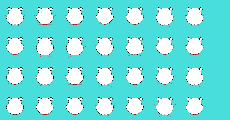
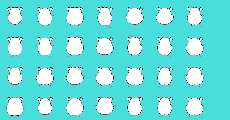
face function done

diff --git a/face_code.js b/face_code.js
@@ -19,7 +19,7 @@
 // MF = Middle line of Face
 // LF = Lower Face
 
-function myFace(Cheek, Jaw){
+function myFace(topHead_angle, upperCheek_angle, MF_width, cheek_angle, jaw_angle){
   angleMode(DEGREES);
   rectMode(CENTER);
   strokeWeight(0.2);
@@ -42,38 +42,38 @@ function myFace(Cheek, Jaw){
   endShape();
 
   // Upper half of face
-  beginShape();
-  vertex(-6, 0);
-  bezierVertex(-5, -1, -6, -6, 0, -6);
-  bezierVertex(6, -6, 5, -1, 6, 0);
-  endShape();
+  // beginShape();
+  // vertex(-6, 0);
+  // bezierVertex(-5, -1, -6, -6, 0, -6);
+  // bezierVertex(6, -6, 5, -1, 6, 0);
+  // endShape();
 
   // // Lower half of face
   // // Define bezier's start and end points
-  // let LF_st_X = -6;
-  // let LF_st_Y = 0;
+  // let faceStart_X = -6;
+  // let faceStart_Y = 0;
   // let LF_ed_X1 = 0;
   // let LF_ed_Y1 = 8;
-  // let LF_ed_X2 = 6;
-  // let LF_ed_Y2 = 0;
+  // let faceEnd_X = 6;
+  // let faceEnd_Y = 0;
 
   // // Bezier degree
   // // let lowerFaceSize = 0.4;
 
   // // Control points coordinates
-  // let LF_ctrl_X1 = LF_st_X + (LF_ed_X1-4)  * lowerFaceSize;
-  // let LF_ctrl_Y1 = LF_st_Y + (LF_ed_Y1-7)  * lowerFaceSize;
+  // let LF_ctrl_X1 = faceStart_X + (LF_ed_X1-4)  * lowerFaceSize;
+  // let LF_ctrl_Y1 = faceStart_Y + (LF_ed_Y1-7)  * lowerFaceSize;
   // let LF_ctrl_X2 = LF_ed_X1 + (LF_ed_X1 - 8) * lowerFaceSize;
   // let LF_ctrl_Y2 = LF_ed_Y1 + (LF_ed_Y1 -7) * lowerFaceSize;
-  // let LF_ctrl_X3 = LF_ed_X1 + (LF_ed_X2+2)  * lowerFaceSize;
-  // let LF_ctrl_Y3 = LF_ed_Y1 + (LF_ed_Y2+1)  * lowerFaceSize;
-  // let LF_ctrl_X4 = LF_ed_X2 + (LF_ed_X2 - 2) * lowerFaceSize;
-  // let LF_ctrl_Y4 = LF_ed_Y2 + (LF_ed_Y2 +1) * lowerFaceSize;
+  // let LF_ctrl_X3 = LF_ed_X1 + (faceEnd_X+2)  * lowerFaceSize;
+  // let LF_ctrl_Y3 = LF_ed_Y1 + (faceEnd_Y+1)  * lowerFaceSize;
+  // let LF_ctrl_X4 = faceEnd_X + (faceEnd_X - 2) * lowerFaceSize;
+  // let LF_ctrl_Y4 = faceEnd_Y + (faceEnd_Y +1) * lowerFaceSize;
 
   // beginShape();
-  // vertex(LF_st_X, LF_st_Y);
+  // vertex(faceStart_X, faceStart_Y);
   // bezierVertex(LF_ctrl_X1, LF_ctrl_Y1, LF_ctrl_X2, LF_ctrl_Y2, LF_ed_X1, LF_ed_Y1);
-  // bezierVertex(LF_ctrl_X3, LF_ctrl_Y3, LF_ctrl_X4, LF_ctrl_Y4, LF_ed_X2, LF_ed_Y2);
+  // bezierVertex(LF_ctrl_X3, LF_ctrl_Y3, LF_ctrl_X4, LF_ctrl_Y4, faceEnd_X, faceEnd_Y);
   // endShape();
 
   // // beginShape();
@@ -98,52 +98,84 @@ function myFace(Cheek, Jaw){
   // line(0, 8, 8, 9);
   // line(10, 1, 6, 0);
   ///////////////////////////////////////////
-  lowerFace(Cheek, Jaw);
+  faceShape(topHead_angle, upperCheek_angle, MF_width, cheek_angle, jaw_angle);
 }
 
-function lowerFace(Cheek, Jaw){
-  // Cheek is the angles of lower control lines (below middle line of face)
-  // Jaw is the angles of bottom control lines
+function faceShape(topHead_angle, upperCheek_angle, MF_width, cheek_angle, jaw_angle){
+  
   // Define bezier's start and end points
-  let LF_ctrl_Radius1 = 3.3;
-  let LF_ctrl_Radius2 = 6;
-  // Cheek = 17;
-  // Jaw = 20;
-  let MF_width = 6;
+  // MF_width = 6; // Width of the face middle
 
-  let LF_st_X = -MF_width;
-  let LF_st_Y = 0;
+  // Both upper and lower face bezier shapes start from left middle point, and end at right middle point
+  let faceStart_X = -MF_width;
+  let faceStart_Y = 0;
+  let faceEnd_X = MF_width;
+  let faceEnd_Y = 0;
+
+  let UF_ed_X1 = 0;
+  let UF_ed_Y1 = -6; // Top head height
   let LF_ed_X1 = 0;
-  let LF_ed_Y1 = 8;
-  let LF_ed_X2 = MF_width;
-  let LF_ed_Y2 = 0;
+  let LF_ed_Y1 = 8; // Jaw height
+  
+  
+  // Upper half of face
+  // upperCheek_angle is the angles of upper control lines (above middle line of face)
+  // topHead_angle is the angles of top control lines
+  // upperCheek_angle = -45;
+  // topHead_angle = 180;
+  let UF_ctrl_Radius1 = MF_width*0.2; // Upper cheek control handle length
+  let UF_ctrl_Radius2 = MF_width*1; // Top head control handle length
+  
+  let UF_ctrl_X1 = faceStart_X + cos(upperCheek_angle) * UF_ctrl_Radius1; // Lower left control point X
+  let UF_ctrl_Y1 = faceStart_Y + sin(upperCheek_angle) * UF_ctrl_Radius1; // Lower left control point Y
+  let UF_ctrl_X2 = UF_ed_X1 + cos(topHead_angle) * UF_ctrl_Radius2; // Bottom left control point X
+  let UF_ctrl_Y2 = UF_ed_Y1 + sin(topHead_angle) * UF_ctrl_Radius2; // Bottom left control point Y
+  let UF_ctrl_X3 = UF_ed_X1 + cos(180-topHead_angle) * UF_ctrl_Radius2; // Bottom right control point X
+  let UF_ctrl_Y3 = UF_ed_Y1 + sin(180-topHead_angle) * UF_ctrl_Radius2; // Bottom right control point Y
+  let UF_ctrl_X4 = faceEnd_X + cos(-180-upperCheek_angle) * UF_ctrl_Radius1; // Lower right control point X
+  let UF_ctrl_Y4 = faceEnd_Y + sin(-180-upperCheek_angle) * UF_ctrl_Radius1; // Lower right control point Y
 
-  let LF_ctrl_X1 = LF_st_X + cos(180-Cheek) * LF_ctrl_Radius1; // Lower left control point X
-  let LF_ctrl_Y1 = LF_st_Y + sin(180-Cheek) * LF_ctrl_Radius1; // Lower left control point Y
-  let LF_ctrl_X2 = LF_ed_X1 + cos(180-Jaw) * LF_ctrl_Radius2; // Bottom left control point X
-  let LF_ctrl_Y2 = LF_ed_Y1 + sin(180-Jaw) * LF_ctrl_Radius2; // Bottom left control point Y
-  let LF_ctrl_X3 = LF_ed_X1 + cos(Jaw) * LF_ctrl_Radius2; // Bottom right control point X
-  let LF_ctrl_Y3 = LF_ed_Y1 + sin(Jaw) * LF_ctrl_Radius2; // Bottom right control point Y
-  let LF_ctrl_X4 = LF_ed_X2 + cos(Cheek) * LF_ctrl_Radius1; // Lower right control point X
-  let LF_ctrl_Y4 = LF_ed_Y2 + sin(Cheek) * LF_ctrl_Radius1; // Lower right control point Y
+  beginShape();
+  vertex(faceStart_X, faceStart_Y);
+  bezierVertex(UF_ctrl_X1, UF_ctrl_Y1, UF_ctrl_X2, UF_ctrl_Y2, UF_ed_X1, UF_ed_Y1);
+  bezierVertex(UF_ctrl_X3, UF_ctrl_Y3, UF_ctrl_X4, UF_ctrl_Y4, faceEnd_X, faceEnd_Y);
+  endShape();
+
+
+  // Lower half of face
+  // cheek_angle is the angles of lower control lines (below middle line of face)
+  // jaw_angle is the angles of bottom control lines
+  // cheek_angle = 17;
+  // jaw_angle = 20;
+  let LF_ctrl_Radius1 = MF_width*0.5; // Cheek control handle length
+  let LF_ctrl_Radius2 = MF_width*1.2; // Jaw control handle length
+  
+  let LF_ctrl_X1 = faceStart_X + cos(180-cheek_angle) * LF_ctrl_Radius1; // Lower left control point X
+  let LF_ctrl_Y1 = faceStart_Y + sin(180-cheek_angle) * LF_ctrl_Radius1; // Lower left control point Y
+  let LF_ctrl_X2 = LF_ed_X1 + cos(180-jaw_angle) * LF_ctrl_Radius2; // Bottom left control point X
+  let LF_ctrl_Y2 = LF_ed_Y1 + sin(180-jaw_angle) * LF_ctrl_Radius2; // Bottom left control point Y
+  let LF_ctrl_X3 = LF_ed_X1 + cos(jaw_angle) * LF_ctrl_Radius2; // Bottom right control point X
+  let LF_ctrl_Y3 = LF_ed_Y1 + sin(jaw_angle) * LF_ctrl_Radius2; // Bottom right control point Y
+  let LF_ctrl_X4 = faceEnd_X + cos(cheek_angle) * LF_ctrl_Radius1; // Lower right control point X
+  let LF_ctrl_Y4 = faceEnd_Y + sin(cheek_angle) * LF_ctrl_Radius1; // Lower right control point Y
 
   // Bezier degree
   // let lowerFaceSize = 0.4;
 
   // Control points coordinates
-  // let LF_ctrl_X1 = LF_st_X + (LF_ed_X1-4)  * lowerFaceSize;
-  // let LF_ctrl_Y1 = LF_st_Y + (LF_ed_Y1-7)  * lowerFaceSize;
+  // let LF_ctrl_X1 = faceStart_X + (LF_ed_X1-4)  * lowerFaceSize;
+  // let LF_ctrl_Y1 = faceStart_Y + (LF_ed_Y1-7)  * lowerFaceSize;
   // let LF_ctrl_X2 = LF_ed_X1 + (LF_ed_X1 - 8) * lowerFaceSize;
   // let LF_ctrl_Y2 = LF_ed_Y1 + (LF_ed_Y1 -7) * lowerFaceSize;
-  // let LF_ctrl_X3 = LF_ed_X1 + (LF_ed_X2+2)  * lowerFaceSize;
-  // let LF_ctrl_Y3 = LF_ed_Y1 + (LF_ed_Y2+1)  * lowerFaceSize;
-  // let LF_ctrl_X4 = LF_ed_X2 + (LF_ed_X2 - 2) * lowerFaceSize;
-  // let LF_ctrl_Y4 = LF_ed_Y2 + (LF_ed_Y2 +1) * lowerFaceSize;
+  // let LF_ctrl_X3 = LF_ed_X1 + (faceEnd_X+2)  * lowerFaceSize;
+  // let LF_ctrl_Y3 = LF_ed_Y1 + (faceEnd_Y+1)  * lowerFaceSize;
+  // let LF_ctrl_X4 = faceEnd_X + (faceEnd_X - 2) * lowerFaceSize;
+  // let LF_ctrl_Y4 = faceEnd_Y + (faceEnd_Y +1) * lowerFaceSize;
 
   beginShape();
-  vertex(LF_st_X, LF_st_Y);
+  vertex(faceStart_X, faceStart_Y);
   bezierVertex(LF_ctrl_X1, LF_ctrl_Y1, LF_ctrl_X2, LF_ctrl_Y2, LF_ed_X1, LF_ed_Y1);
-  bezierVertex(LF_ctrl_X3, LF_ctrl_Y3, LF_ctrl_X4, LF_ctrl_Y4, LF_ed_X2, LF_ed_Y2);
+  bezierVertex(LF_ctrl_X3, LF_ctrl_Y3, LF_ctrl_X4, LF_ctrl_Y4, faceEnd_X, faceEnd_Y);
   endShape();
 
   // beginShape();
@@ -157,16 +189,16 @@ function lowerFace(Cheek, Jaw){
   stroke(255,0,0);
   strokeWeight(0.1);
   // Upper bezier control lines
-  line(-6, 0, -5, -1);
-  line(-6, -6, 0, -6);
-  line(0, -6, 6, -6);
-  line(5, -1, 6, 0);
+  line(faceStart_X, faceStart_Y, UF_ctrl_X1, UF_ctrl_Y1);
+  line(UF_ctrl_X2, UF_ctrl_Y2, UF_ed_X1, UF_ed_Y1);
+  line(UF_ed_X1, UF_ed_Y1, UF_ctrl_X3, UF_ctrl_Y3);
+  line(UF_ctrl_X4, UF_ctrl_Y4, faceEnd_X, faceEnd_Y);
 
   // Lower bezier control lines
-  line(LF_st_X, LF_st_Y, LF_ctrl_X1, LF_ctrl_Y1);
+  line(faceStart_X, faceStart_Y, LF_ctrl_X1, LF_ctrl_Y1);
   line(LF_ctrl_X2, LF_ctrl_Y2, LF_ed_X1, LF_ed_Y1);
   line(LF_ed_X1, LF_ed_Y1, LF_ctrl_X3, LF_ctrl_Y3);
-  line(LF_ctrl_X4, LF_ctrl_Y4, LF_ed_X2, LF_ed_Y2);
+  line(LF_ctrl_X4, LF_ctrl_Y4, faceEnd_X, faceEnd_Y);
   ///////////////////////////////////////////
 }
 

diff --git a/arrangement.js b/arrangement.js
@@ -59,19 +59,24 @@ function draw () {
         // let mouth_value = random(3,4);
         let is_cyclops = random(0, 100);
 
-        let Cheek = int(random(-10,30));
-        let Jaw = int(random(-15,25));
+        let topHead_angle = random(170, 210);
+        let upperCheek_angle = random(-30, -70);
+        let MF_width = int(random(5, 7));
+        let cheek_angle = random(-5,35);
+        let jaw_angle = random(-10,30);
 
-        // if(is_cyclops < 10) {
+        if(is_cyclops < 10) {
         //   eye_value = 1;
         //   tilt_value = random(-5, 5);
         //   mouth_value = random(0, 1.7);
         // }
 
-        if(is_cyclops >= 10 && is_cyclops <=50) {
-          // eye_value = 1;
-          Cheek = random(0, 20);
-          Jaw = random(-5, 15);
+        // if(is_cyclops >= 10 && is_cyclops <=50) {
+          topHead_angle = random(175, 185);
+          upperCheek_angle = random(-40, -50);
+          MF_width = 6;
+          cheek_angle = random(14, 20);
+          jaw_angle = random(15, 25);
         }
 
 
@@ -80,7 +85,7 @@ function draw () {
         scale(w/25, h/25);
         
         // orangeAlienFace(tilt_value, eye_value, mouth_value);
-        myFace(Cheek, Jaw);
+        myFace(topHead_angle, upperCheek_angle, MF_width, cheek_angle, jaw_angle);
         pop();
       
     }

diff --git a/editor.js b/editor.js
@@ -86,10 +86,13 @@ function draw () {
   push();
 
   if (mode == '1') {
-    let Cheek = map(s4, 0, 100, -5, 35);
-    let Jaw = map(s5, 0, 100, -10, 30);
+    let topHead_angle = map(s1, 0, 100, 175, 200);
+    let upperCheek_angle = map(s2, 0, 100, -30, -70);
+    let MF_width = map(s3, 0, 100, 5, 7);
+    let cheek_angle = map(s4, 0, 100, -5, 35);
+    let jaw_angle = map(s5, 0, 100, -10, 30);
 
-    myFace(Cheek, Jaw);
+    myFace(topHead_angle, upperCheek_angle, MF_width, cheek_angle, jaw_angle);
   }
 
   if (mode == '2') {
@@ -125,14 +128,16 @@ function draw () {
 
   pop();
 
+  pop();
+
   // Show mouse coordinate within face guide
   push();
   strokeWeight(2);
   stroke(255);
-  point(288,58);
-  point(672,58);
-  point(672,442);
-  point(288,442);
+  // point(288,58);
+  // point(672,58);
+  // point(672,442);
+  // point(288,442);
   let mX = int(map(mouseX-480,-480,480,-25,25));
   let mY = int(map(mouseY-250,-250,250,-13,13));
   
@@ -140,7 +145,6 @@ function draw () {
   text("Mouse X: " + mX + ", Mouse Y: " + mY, 410, 20);
   pop();
 
-  pop();
 }
 
 function keyTyped() {

diff --git a/editor.html b/editor.html
@@ -37,23 +37,23 @@
         <div class="inner" id="controls" height="500px">
             <table>
                 <tr>
-                    <td>Setting 1</td>
+                    <td>topHead_angle</td>
                     <td id="slider1Container"></td>
                 </tr>
                 <tr>
-                    <td>Setting 2</td>
+                    <td>upperCheek_angle</td>
                     <td id="slider2Container"></td>
                 </tr>
                 <tr>
-                    <td>Setting 3</td>
+                    <td>MF_width</td>
                     <td id="slider3Container"></td>
                 </tr>
                 <tr>
-                    <td>Cheek</td>
+                    <td>cheek_angle</td>
                     <td id="slider4Container"></td>
                 </tr>
                 <tr>
-                    <td>Jaw</td>
+                    <td>jaw_angle</td>
                     <td id="slider5Container"></td>
                 </tr>
                 <tr>

diff --git a/README.md b/README.md
@@ -3,6 +3,4 @@
 ## 2023 MDDN342 Assignment 2: Randomised Collections
 **This is where you talk about your project!**
 
->I've made the control points like handles, which means that the 'start point' or 'end point' of a bezier shape is the center of circle, the length between 'start point'/'end point' and control point is the radius of circle, so the control point is like moving(rotating) along circle by changing the 'angle'. I think it is easier to make control of the beziers.
-Now only the lower part of the face is done and I'll apply the similar codes for the upper part of the face. The face's size control will be one function, soon I'll make functions of ears, eyes and mouth.
-There are Cheek and Jaw sliders to change the lower face size.
+>More face shape settings added. In editor page, top, middle and bottom parts of the face can be adjusted.
